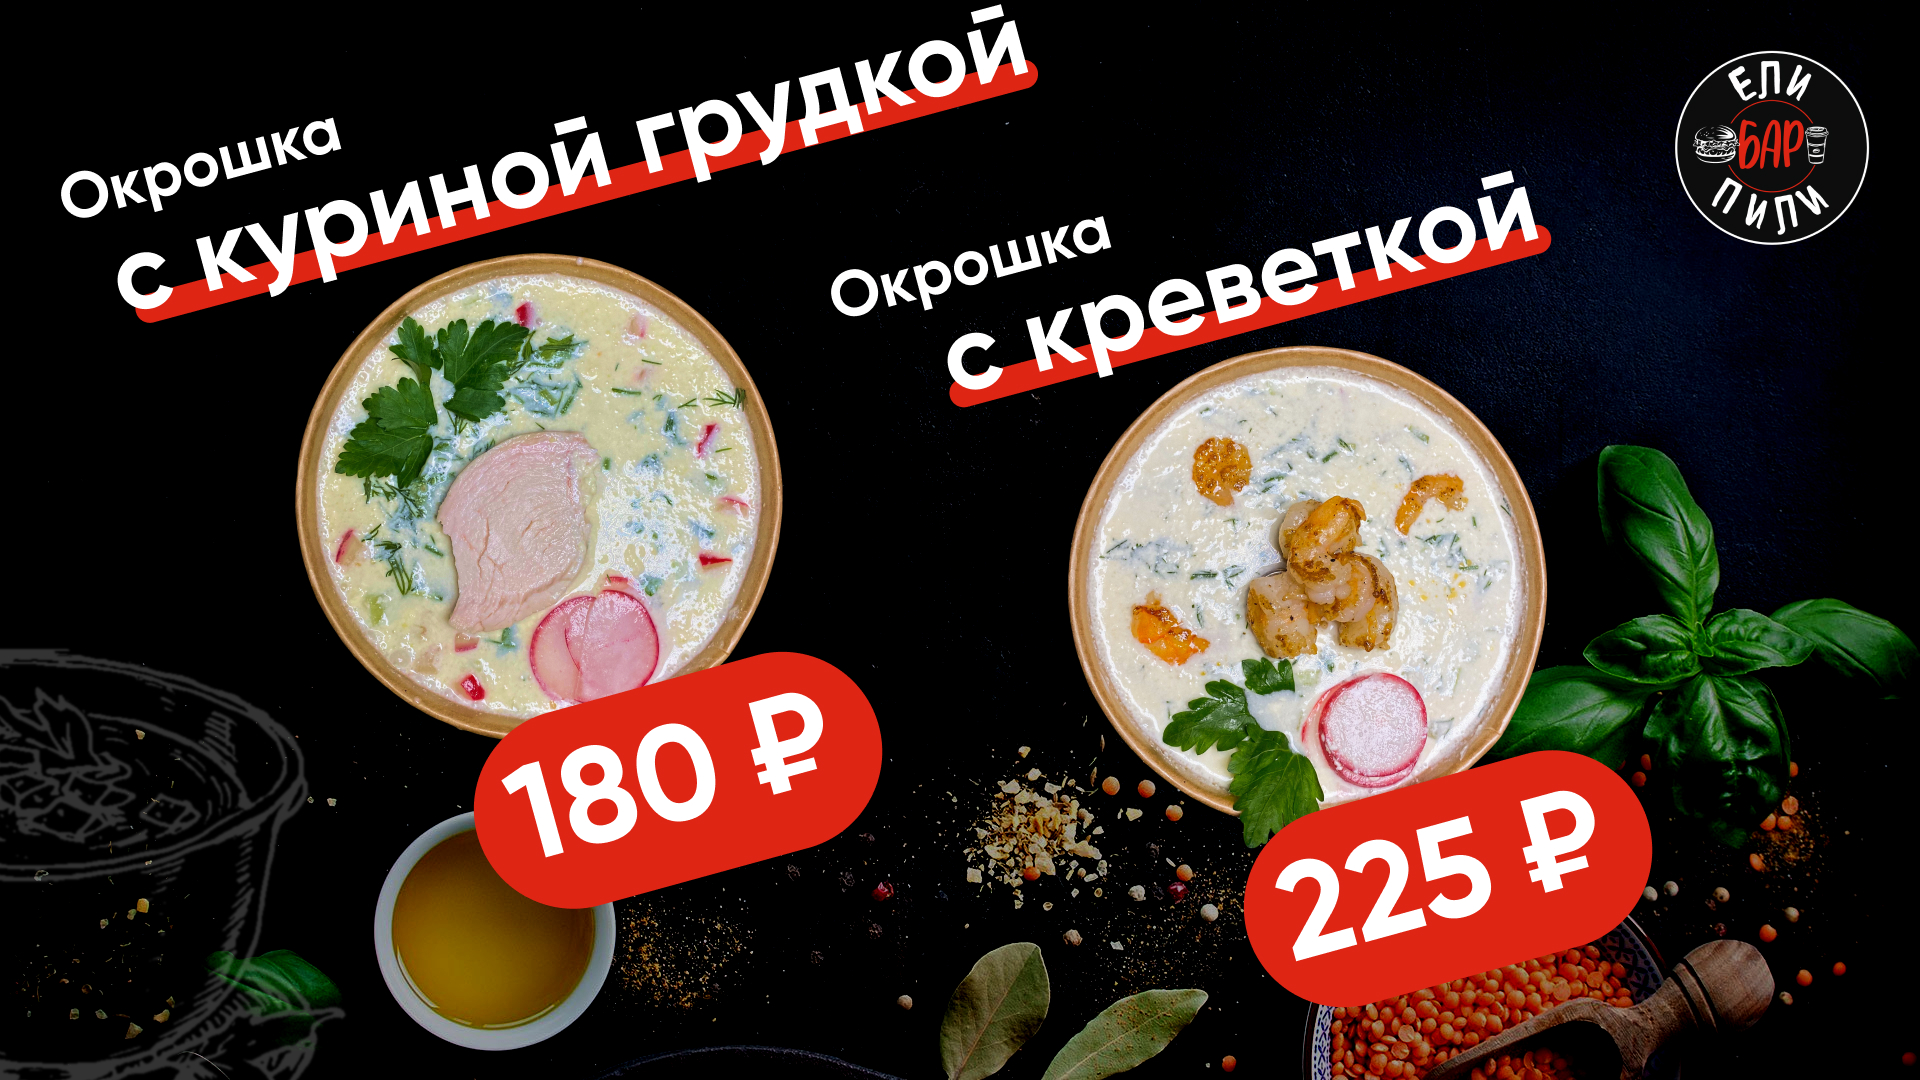
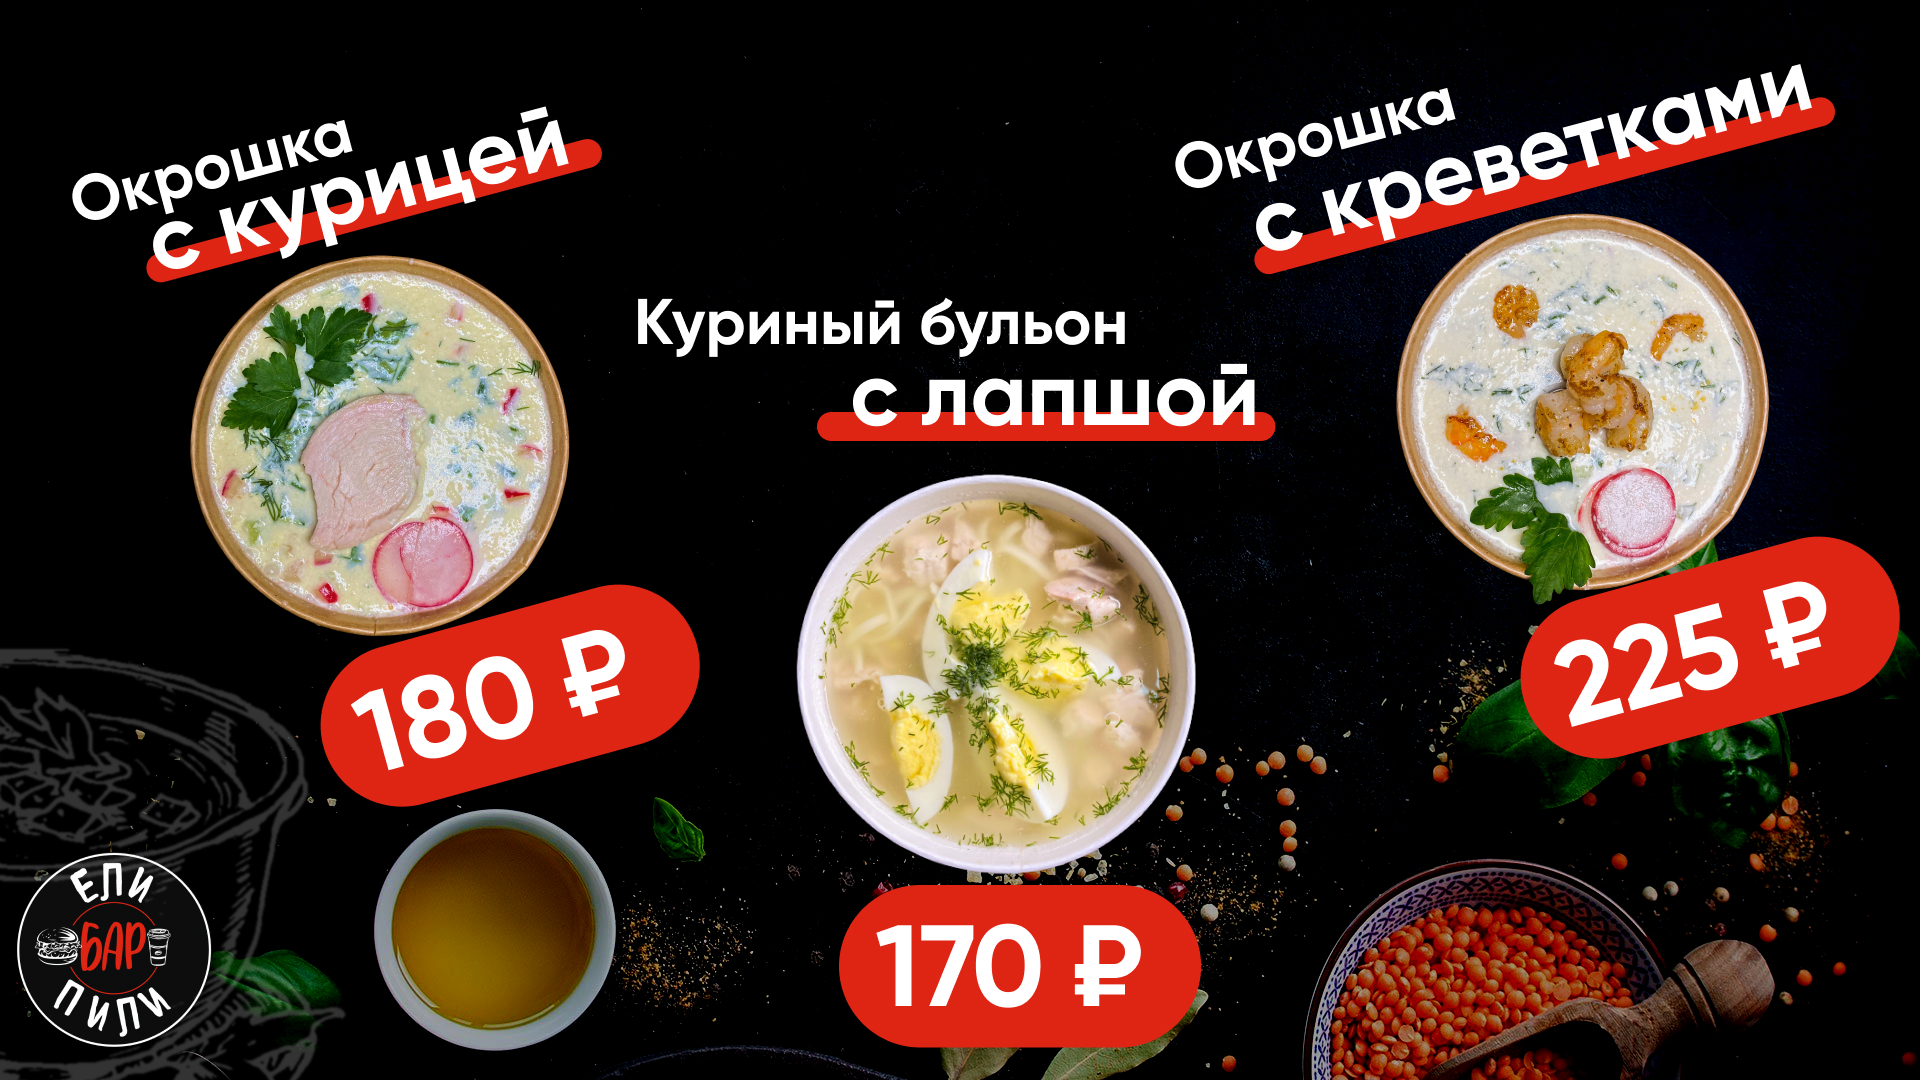
add

diff --git a/assets/css/styles.min.css b/assets/css/styles.min.css
@@ -1,1 +1,1 @@
-.clearfix:after{content:"";display:block;clear:both}.sr-only{position:absolute;width:1px;height:1px;margin:-1px;padding:0;overflow:hidden;clip:rect(0,0,0,0);border:0}.sr-only-focusable:active,.sr-only-focusable:focus{position:static;width:auto;height:auto;margin:0;overflow:visible;clip:auto}.ellipsis{white-space:nowrap;text-overflow:ellipsis;overflow:hidden}.burger,.nav__list{display:flex;flex-direction:column}.header__wrap{align-items:center;justify-content:space-between}.header__wrap,.row{display:flex;flex-wrap:wrap}.col,.col.col-12{width:100%}.col.col-6{width:50%}.col.col-4{width:33.33333%}.col.col-3{width:25%}.col.col-2{width:16.66667%}.col.col-1{width:8.33333%}article,aside,audio,b,body,canvas,dd,details,div,dl,dt,em,fieldset,figcaption,figure,footer,form,h1,h2,h3,h4,h5,h6,header,hgroup,html,i,img,label,li,mark,menu,nav,ol,p,section,span,strong,sub,summary,sup,table,tbody,td,tfoot,th,thead,time,tr,u,ul,video{margin:0;padding:0;border:0;outline:0;vertical-align:baseline;background:transparent}*,:after,:before{box-sizing:inherit}ul{list-style:none}a{display:inline-block;cursor:pointer;transition:all .3s ease}a,a:active,a:focus,a:hover{text-decoration:none}img{max-width:100%;height:auto}.gm-style img{max-width:none}*{-webkit-tap-highlight-color:rgba(0,0,0,0)}html{font-size:10px;box-sizing:border-box}body{-webkit-font-smoothing:antialiased;-moz-osx-font-smoothing:grayscale;font-family:Gilroy;min-width:320px}.wrapper,body.overflow{overflow:hidden}.wrapper{width:100%;min-height:100vh;position:relative}.container{width:100%;max-width:1920px;margin:0 auto}.scroll-wrap::-webkit-scrollbar{width:3px;background-color:#ccc}.scroll-wrap::-webkit-scrollbar-thumb{background-color:rgba(0,0,0,.75);border-radius:10px}.main-title{font-size:3rem}.section-title{font-size:2rem}.base-text{font-size:1.6rem}.typography h1{font-size:3rem;margin-bottom:3rem}.typography h2{font-size:2rem;margin-bottom:2rem}.typography p{font-size:1.6rem;margin-bottom:3rem}fieldset,form{margin:0;padding:0;border-style:none}input[type=email],input[type=number],input[type=password],input[type=search],input[type=tel],input[type=text],textarea{-webkit-appearance:none;border-radius:0;outline:none;appearance:none;box-sizing:border-box;border:1px solid #ccc;font-family:Gilroy;padding:1rem 1.5rem}input[type=email]::placeholder,input[type=number]::placeholder,input[type=password]::placeholder,input[type=search]::placeholder,input[type=tel]::placeholder,input[type=text]::placeholder,textarea::placeholder{transition:all .3s ease}input[type=email]:focus,input[type=number]:focus,input[type=password]:focus,input[type=search]:focus,input[type=tel]:focus,input[type=text]:focus,textarea:focus{border-color:#000}input[type=email]::-webkit-input-placeholder,input[type=number]::-webkit-input-placeholder,input[type=password]::-webkit-input-placeholder,input[type=search]::-webkit-input-placeholder,input[type=tel]::-webkit-input-placeholder,input[type=text]::-webkit-input-placeholder,textarea::-webkit-input-placeholder{color:#000}input[type=email]::-moz-placeholder,input[type=number]::-moz-placeholder,input[type=password]::-moz-placeholder,input[type=search]::-moz-placeholder,input[type=tel]::-moz-placeholder,input[type=text]::-moz-placeholder,textarea::-moz-placeholder{opacity:1;color:#000}input[type=email]:-moz-placeholder,input[type=number]:-moz-placeholder,input[type=password]:-moz-placeholder,input[type=search]:-moz-placeholder,input[type=tel]:-moz-placeholder,input[type=text]:-moz-placeholder,textarea:-moz-placeholder{color:#000}input[type=email]:-ms-input-placeholder,input[type=number]:-ms-input-placeholder,input[type=password]:-ms-input-placeholder,input[type=search]:-ms-input-placeholder,input[type=tel]:-ms-input-placeholder,input[type=text]:-ms-input-placeholder,textarea:-ms-input-placeholder{color:#000}input[type=email].placeholder,input[type=number].placeholder,input[type=password].placeholder,input[type=search].placeholder,input[type=tel].placeholder,input[type=text].placeholder,textarea.placeholder{color:#000}textarea{resize:vertical;vertical-align:top;border:none;background-color:transparent;outline:none;-webkit-appearance:none;appearance:none}button,input[type=button],input[type=file],input[type=reset],input[type=submit]{font-family:Gilroy;-webkit-appearance:none;appearance:none;border-radius:0;cursor:pointer}button,select{cursor:pointer;border:none;background-color:transparent;transition:all .3s ease;outline:none;border-radius:0;-webkit-appearance:none;appearance:none}button{padding:0}input[type=search]::-webkit-search-cancel-button,input[type=search]::-webkit-search-decoration,input[type=search]::-webkit-search-results-button,input[type=search]::-webkit-search-results-decoration{-webkit-appearance:none;appearance:none}input[type=number]{-webkit-appearance:textfield;appearance:textfield;margin:0}input[type=number]::-webkit-inner-spin-button,input[type=number]::-webkit-outer-spin-button{-webkit-appearance:none;margin:0}input:focus::placeholder{color:transparent}.icon{display:inline-block;width:1em;height:1em;fill:currentColor}.icon-close{font-size:2.4rem;width:1em}.header{padding:2rem 0}.nav{margin:0 auto;position:absolute;top:0;right:0;left:0;width:100%;padding:83px 16px 16px;background-color:#ccc;z-index:5;transition:all .3s ease;transform:translateX(110%)}.nav.active{transform:translateX(0)}.nav__list{font-size:16px;line-height:2}.nav__item+.nav__item{margin-top:15px}.logo{position:relative;z-index:6}.logo a{width:150px;height:20px;background-color:#ffc117}.burger{width:30px;height:30px;position:relative;z-index:6;justify-content:center;align-items:center}.burger.active span{position:absolute}.burger.active span:first-child{top:50%;left:50%;transform:translate(-50%,-50%) rotate(45deg)}.burger.active span:nth-child(2){opacity:0}.burger.active span:nth-child(3){top:40%;left:50%;transform:translate(-50%,-50%) rotate(-45deg)}.burger span{width:80%;height:2px;border-radius:1px;background-color:#000;transition:all .3s ease}.burger span:first-child{margin-bottom:4px}.burger span:nth-child(3){margin-top:4px}.footer{padding:2rem 0}.svg-sprite{width:0;height:0;overflow:hidden;position:absolute}.swiper{width:100%;height:100vh}.swiper-slide{background-size:cover!important;background-repeat:no-repeat;background-position:50%;text-align:center;font-size:18px;background:#fff;display:flex;justify-content:center;align-items:center}.swiper-slide img{display:block;width:100%;height:100%;object-fit:cover}.burgers-wrap{display:flex;flex-wrap:wrap;background-size:cover;background-repeat:no-repeat;background-position:50%;background-color:#000;position:relative}.burgers__row{display:flex;align-items:center;justify-content:space-around;width:100%;height:100%}.burgers__row:first-child .burgers:nth-child(1){width:675px;height:665px}.burgers{width:490px;height:481px}.burgers__img{width:100%;height:100%;margin:0 auto}@media (min-width:768px){.col.col-tb-12{width:100%}.col.col-tb-6{width:50%}.col.col-tb-4{width:33.33333%}.col.col-tb-3{width:25%}.col.col-tb-2{width:16.66667%}.col.col-tb-1{width:8.33333%}.header__wrap{justify-content:center}.nav{position:static;background-color:#fff;transform:translateX(0);padding:0;width:auto}.nav__list{flex-direction:row}.nav__item+.nav__item{margin-left:15px;margin-top:0}.burger{display:none}}@media (min-width:1024px){.col.col-lg-12{width:100%}.col.col-lg-6{width:50%}.col.col-lg-4{width:33.33333%}.col.col-lg-3{width:25%}.col.col-lg-2{width:16.66667%}.col.col-lg-1{width:8.33333%}}
+.clearfix:after{content:"";display:block;clear:both}.sr-only{position:absolute;width:1px;height:1px;margin:-1px;padding:0;overflow:hidden;clip:rect(0,0,0,0);border:0}.sr-only-focusable:active,.sr-only-focusable:focus{position:static;width:auto;height:auto;margin:0;overflow:visible;clip:auto}.ellipsis{white-space:nowrap;text-overflow:ellipsis;overflow:hidden}.burger,.nav__list{display:flex;flex-direction:column}.header__wrap{align-items:center;justify-content:space-between}.header__wrap,.row{display:flex;flex-wrap:wrap}.col,.col.col-12{width:100%}.col.col-6{width:50%}.col.col-4{width:33.33333%}.col.col-3{width:25%}.col.col-2{width:16.66667%}.col.col-1{width:8.33333%}article,aside,audio,b,body,canvas,dd,details,div,dl,dt,em,fieldset,figcaption,figure,footer,form,h1,h2,h3,h4,h5,h6,header,hgroup,html,i,img,label,li,mark,menu,nav,ol,p,section,span,strong,sub,summary,sup,table,tbody,td,tfoot,th,thead,time,tr,u,ul,video{margin:0;padding:0;border:0;outline:0;vertical-align:baseline;background:transparent}*,:after,:before{box-sizing:inherit}ul{list-style:none}a{display:inline-block;cursor:pointer;transition:all .3s ease}a,a:active,a:focus,a:hover{text-decoration:none}img{max-width:100%;height:auto}.gm-style img{max-width:none}*{-webkit-tap-highlight-color:rgba(0,0,0,0)}html{font-size:10px;box-sizing:border-box}body{-webkit-font-smoothing:antialiased;-moz-osx-font-smoothing:grayscale;font-family:Gilroy;min-width:320px}.wrapper,body.overflow{overflow:hidden}.wrapper{width:100%;min-height:100vh;position:relative}.container{width:100%;max-width:1920px;margin:0 auto}.scroll-wrap::-webkit-scrollbar{width:3px;background-color:#ccc}.scroll-wrap::-webkit-scrollbar-thumb{background-color:rgba(0,0,0,.75);border-radius:10px}.main-title{font-size:3rem}.section-title{font-size:2rem}.base-text{font-size:1.6rem}.typography h1{font-size:3rem;margin-bottom:3rem}.typography h2{font-size:2rem;margin-bottom:2rem}.typography p{font-size:1.6rem;margin-bottom:3rem}fieldset,form{margin:0;padding:0;border-style:none}input[type=email],input[type=number],input[type=password],input[type=search],input[type=tel],input[type=text],textarea{-webkit-appearance:none;border-radius:0;outline:none;appearance:none;box-sizing:border-box;border:1px solid #ccc;font-family:Gilroy;padding:1rem 1.5rem}input[type=email]::placeholder,input[type=number]::placeholder,input[type=password]::placeholder,input[type=search]::placeholder,input[type=tel]::placeholder,input[type=text]::placeholder,textarea::placeholder{transition:all .3s ease}input[type=email]:focus,input[type=number]:focus,input[type=password]:focus,input[type=search]:focus,input[type=tel]:focus,input[type=text]:focus,textarea:focus{border-color:#000}input[type=email]::-webkit-input-placeholder,input[type=number]::-webkit-input-placeholder,input[type=password]::-webkit-input-placeholder,input[type=search]::-webkit-input-placeholder,input[type=tel]::-webkit-input-placeholder,input[type=text]::-webkit-input-placeholder,textarea::-webkit-input-placeholder{color:#000}input[type=email]::-moz-placeholder,input[type=number]::-moz-placeholder,input[type=password]::-moz-placeholder,input[type=search]::-moz-placeholder,input[type=tel]::-moz-placeholder,input[type=text]::-moz-placeholder,textarea::-moz-placeholder{opacity:1;color:#000}input[type=email]:-moz-placeholder,input[type=number]:-moz-placeholder,input[type=password]:-moz-placeholder,input[type=search]:-moz-placeholder,input[type=tel]:-moz-placeholder,input[type=text]:-moz-placeholder,textarea:-moz-placeholder{color:#000}input[type=email]:-ms-input-placeholder,input[type=number]:-ms-input-placeholder,input[type=password]:-ms-input-placeholder,input[type=search]:-ms-input-placeholder,input[type=tel]:-ms-input-placeholder,input[type=text]:-ms-input-placeholder,textarea:-ms-input-placeholder{color:#000}input[type=email].placeholder,input[type=number].placeholder,input[type=password].placeholder,input[type=search].placeholder,input[type=tel].placeholder,input[type=text].placeholder,textarea.placeholder{color:#000}textarea{resize:vertical;vertical-align:top;border:none;background-color:transparent;outline:none;-webkit-appearance:none;appearance:none}button,input[type=button],input[type=file],input[type=reset],input[type=submit]{font-family:Gilroy;-webkit-appearance:none;appearance:none;border-radius:0;cursor:pointer}button,select{cursor:pointer;border:none;background-color:transparent;transition:all .3s ease;outline:none;border-radius:0;-webkit-appearance:none;appearance:none}button{padding:0}input[type=search]::-webkit-search-cancel-button,input[type=search]::-webkit-search-decoration,input[type=search]::-webkit-search-results-button,input[type=search]::-webkit-search-results-decoration{-webkit-appearance:none;appearance:none}input[type=number]{-webkit-appearance:textfield;appearance:textfield;margin:0}input[type=number]::-webkit-inner-spin-button,input[type=number]::-webkit-outer-spin-button{-webkit-appearance:none;margin:0}input:focus::placeholder{color:transparent}.icon{display:inline-block;width:1em;height:1em;fill:currentColor}.icon-close{font-size:2.4rem;width:1em}.header{padding:2rem 0}.nav{margin:0 auto;position:absolute;top:0;right:0;left:0;width:100%;padding:83px 16px 16px;background-color:#ccc;z-index:5;transition:all .3s ease;transform:translateX(110%)}.nav.active{transform:translateX(0)}.nav__list{font-size:16px;line-height:2}.nav__item+.nav__item{margin-top:15px}.logo{position:relative;z-index:6}.logo a{width:150px;height:20px;background-color:#ffc117}.burger{width:30px;height:30px;position:relative;z-index:6;justify-content:center;align-items:center}.burger.active span{position:absolute}.burger.active span:first-child{top:50%;left:50%;transform:translate(-50%,-50%) rotate(45deg)}.burger.active span:nth-child(2){opacity:0}.burger.active span:nth-child(3){top:40%;left:50%;transform:translate(-50%,-50%) rotate(-45deg)}.burger span{width:80%;height:2px;border-radius:1px;background-color:#000;transition:all .3s ease}.burger span:first-child{margin-bottom:4px}.burger span:nth-child(3){margin-top:4px}.footer{padding:2rem 0}.svg-sprite{width:0;height:0;overflow:hidden;position:absolute}.swiper{width:100%;height:100vh}.swiper-slide{background-size:cover!important;background-repeat:no-repeat;background-position:50%;max-height:960px!important}.swiper-slide img{display:block;width:100%;height:100%;object-fit:cover}@media (min-width:768px){.col.col-tb-12{width:100%}.col.col-tb-6{width:50%}.col.col-tb-4{width:33.33333%}.col.col-tb-3{width:25%}.col.col-tb-2{width:16.66667%}.col.col-tb-1{width:8.33333%}.header__wrap{justify-content:center}.nav{position:static;background-color:#fff;transform:translateX(0);padding:0;width:auto}.nav__list{flex-direction:row}.nav__item+.nav__item{margin-left:15px;margin-top:0}.burger{display:none}}@media (min-width:1024px){.col.col-lg-12{width:100%}.col.col-lg-6{width:50%}.col.col-lg-4{width:33.33333%}.col.col-lg-3{width:25%}.col.col-lg-2{width:16.66667%}.col.col-lg-1{width:8.33333%}}

diff --git a/index.html b/index.html
@@ -90,6 +90,7 @@
                             <div class="swiper-slide" style="background-image: url(assets/images/ff.jpg) "></div>
                             <div class="swiper-slide" style="background-image: url(assets/images/f.jpg) "> </div>
                             <div class="swiper-slide" style="background-image: url(assets/images/o.jpg) "></div>
+                            <div class="swiper-slide" style="background-image: url(assets/images/d.jpg) "></div>
                             <!-- <div class="swiper-slide">Slide 6</div>
                             <div class="swiper-slide">Slide 7</div>
                             <div class="swiper-slide">Slide 8</div>
